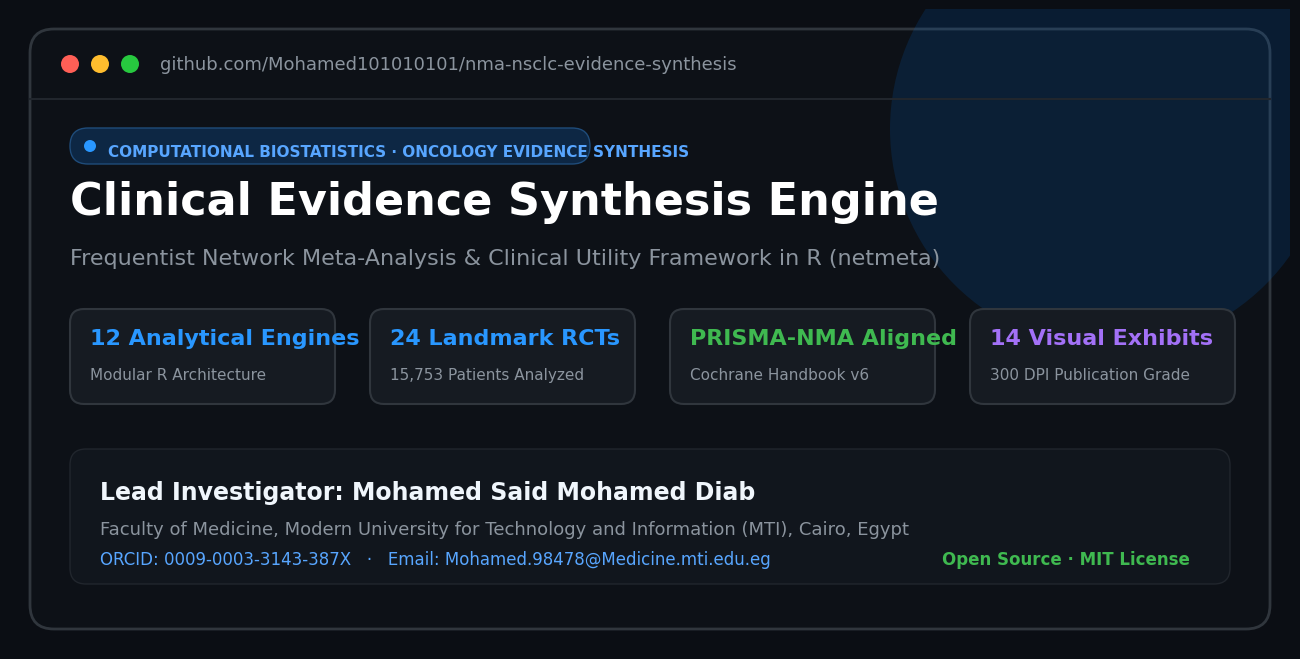
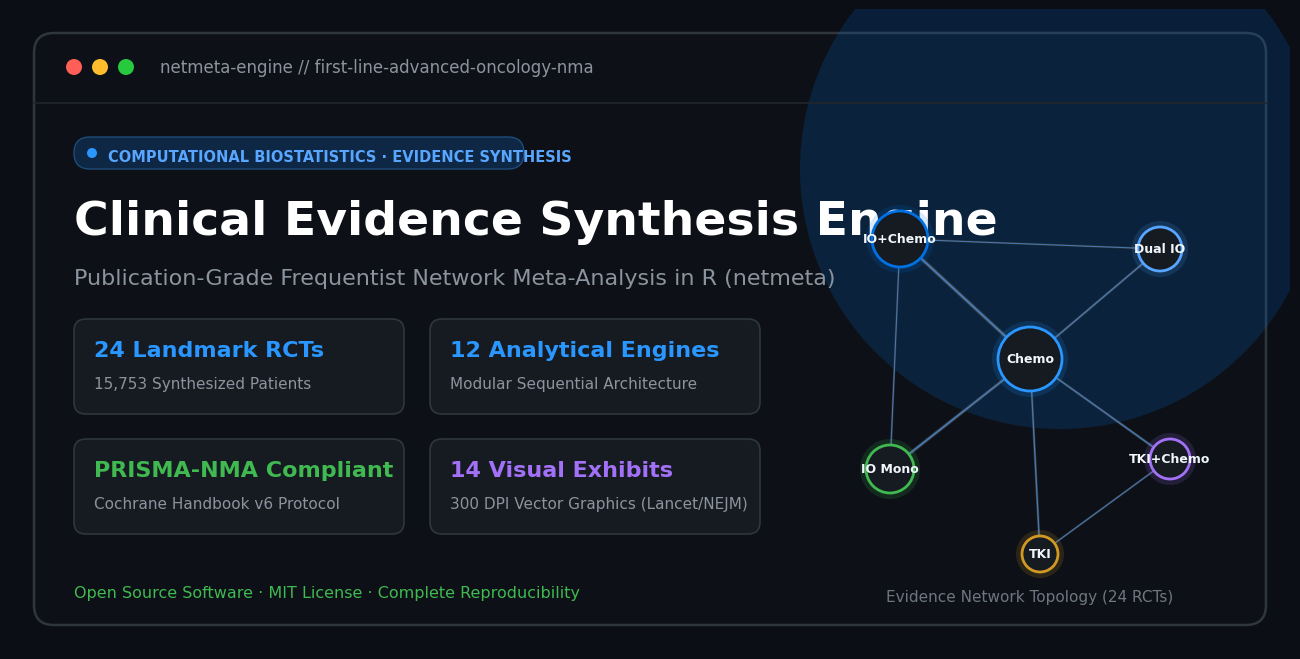
docs: streamline project README to focus strictly on engine and software attribution

diff --git a/README.md b/README.md
@@ -12,8 +12,6 @@
 [![Journal Standard](https://img.shields.io/badge/Publication%20Standard-Lancet%20%7C%20NEJM%20%7C%20BMJ%20%7C%20JAMA-purple.svg)](#4-complete-publication-gallery-300-dpi-visual-exhibits)
 [![Evidence Base](https://img.shields.io/badge/Evidence%20Base-24%20RCTs%20%7C%2015%2C753%20Pts-informational.svg)](#2-evidence-base--clinical-scenario-advanced-nsclc)
 [![Live Interactive Monograph](https://img.shields.io/badge/Live%20Report-Interactive%20Monograph-0071E3.svg?logo=googlechrome&logoColor=white)](https://mohamed101010101.github.io/nma-nsclc-evidence-synthesis/)
-[![ORCID](https://img.shields.io/badge/ORCID-0009--0003--3143--387X-A6CE39.svg?logo=orcid&logoColor=white)](https://orcid.org/0009-0003-3143-387X)
-[![MTI Faculty of Medicine](https://img.shields.io/badge/Affiliation-MTI%20Medicine-161B22.svg?logo=medscape&logoColor=2997FF)](https://www.mti.edu.eg/)
 [![License: MIT](https://img.shields.io/badge/License-MIT-yellow.svg)](LICENSE)
 
 </div>
@@ -634,15 +632,9 @@ rmarkdown::render("report/nma_comprehensive_report.Rmd")
 
 ---
 
-## 👨🔬 Principal Investigator & Research Inquiries
+## 📄 Scholarly Citation & Attribution
 
-**Mohamed Said Mohamed Diab** *(Lead Investigator)*  
-Faculty of Medicine, Modern University for Technology and Information (MTI), Cairo, Egypt  
-- **ORCID:** [0009-0003-3143-387X](https://orcid.org/0009-0003-3143-387X)  
-- **Institutional Email:** [Mohamed.98478@Medicine.mti.edu.eg](mailto:Mohamed.98478@Medicine.mti.edu.eg)  
-
-### Citation & Academic Attribution
-To cite this repository, mathematical architecture, or evidence synthesis engine in publications, clinical guidelines, or monographs, please utilize the metadata provided in [`CITATION.cff`](CITATION.cff) or click **"Cite this repository"** in the repository sidebar.
+If you utilize this computational evidence synthesis engine, methodology, or analytical pipeline in your research, please cite the software using [`CITATION.cff`](CITATION.cff) or click **"Cite this repository"** in the repository sidebar.
 
 ```bibtex
 @software{diab2026_nsclc_nma,
@@ -651,8 +643,7 @@ To cite this repository, mathematical architecture, or evidence synthesis engine
   year         = {2026},
   version      = {1.0.0},
   publisher    = {GitHub},
-  url          = {https://github.com/Mohamed101010101/nma-nsclc-evidence-synthesis},
-  note         = {Faculty of Medicine, Modern University for Technology and Information (MTI), Cairo, Egypt. ORCID: 0009-0003-3143-387X}
+  url          = {https://github.com/Mohamed101010101/nma-nsclc-evidence-synthesis}
 }
 ```
 
